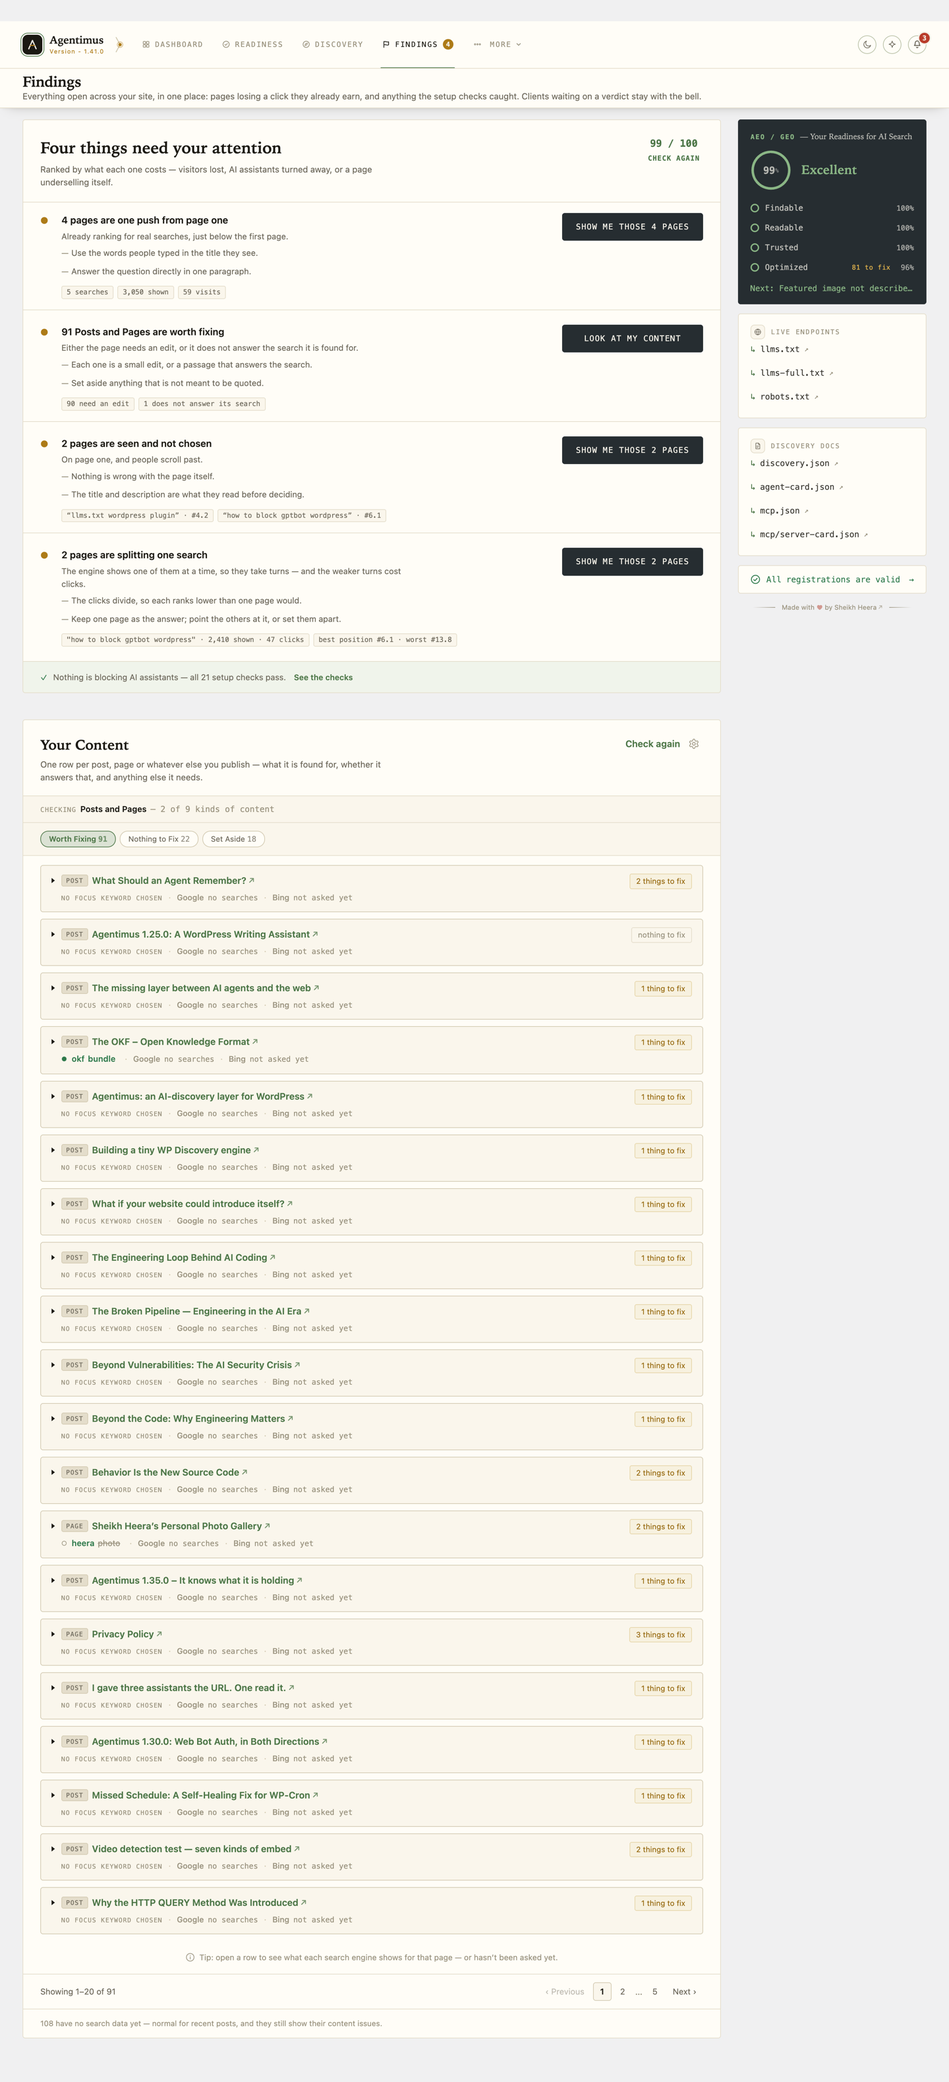
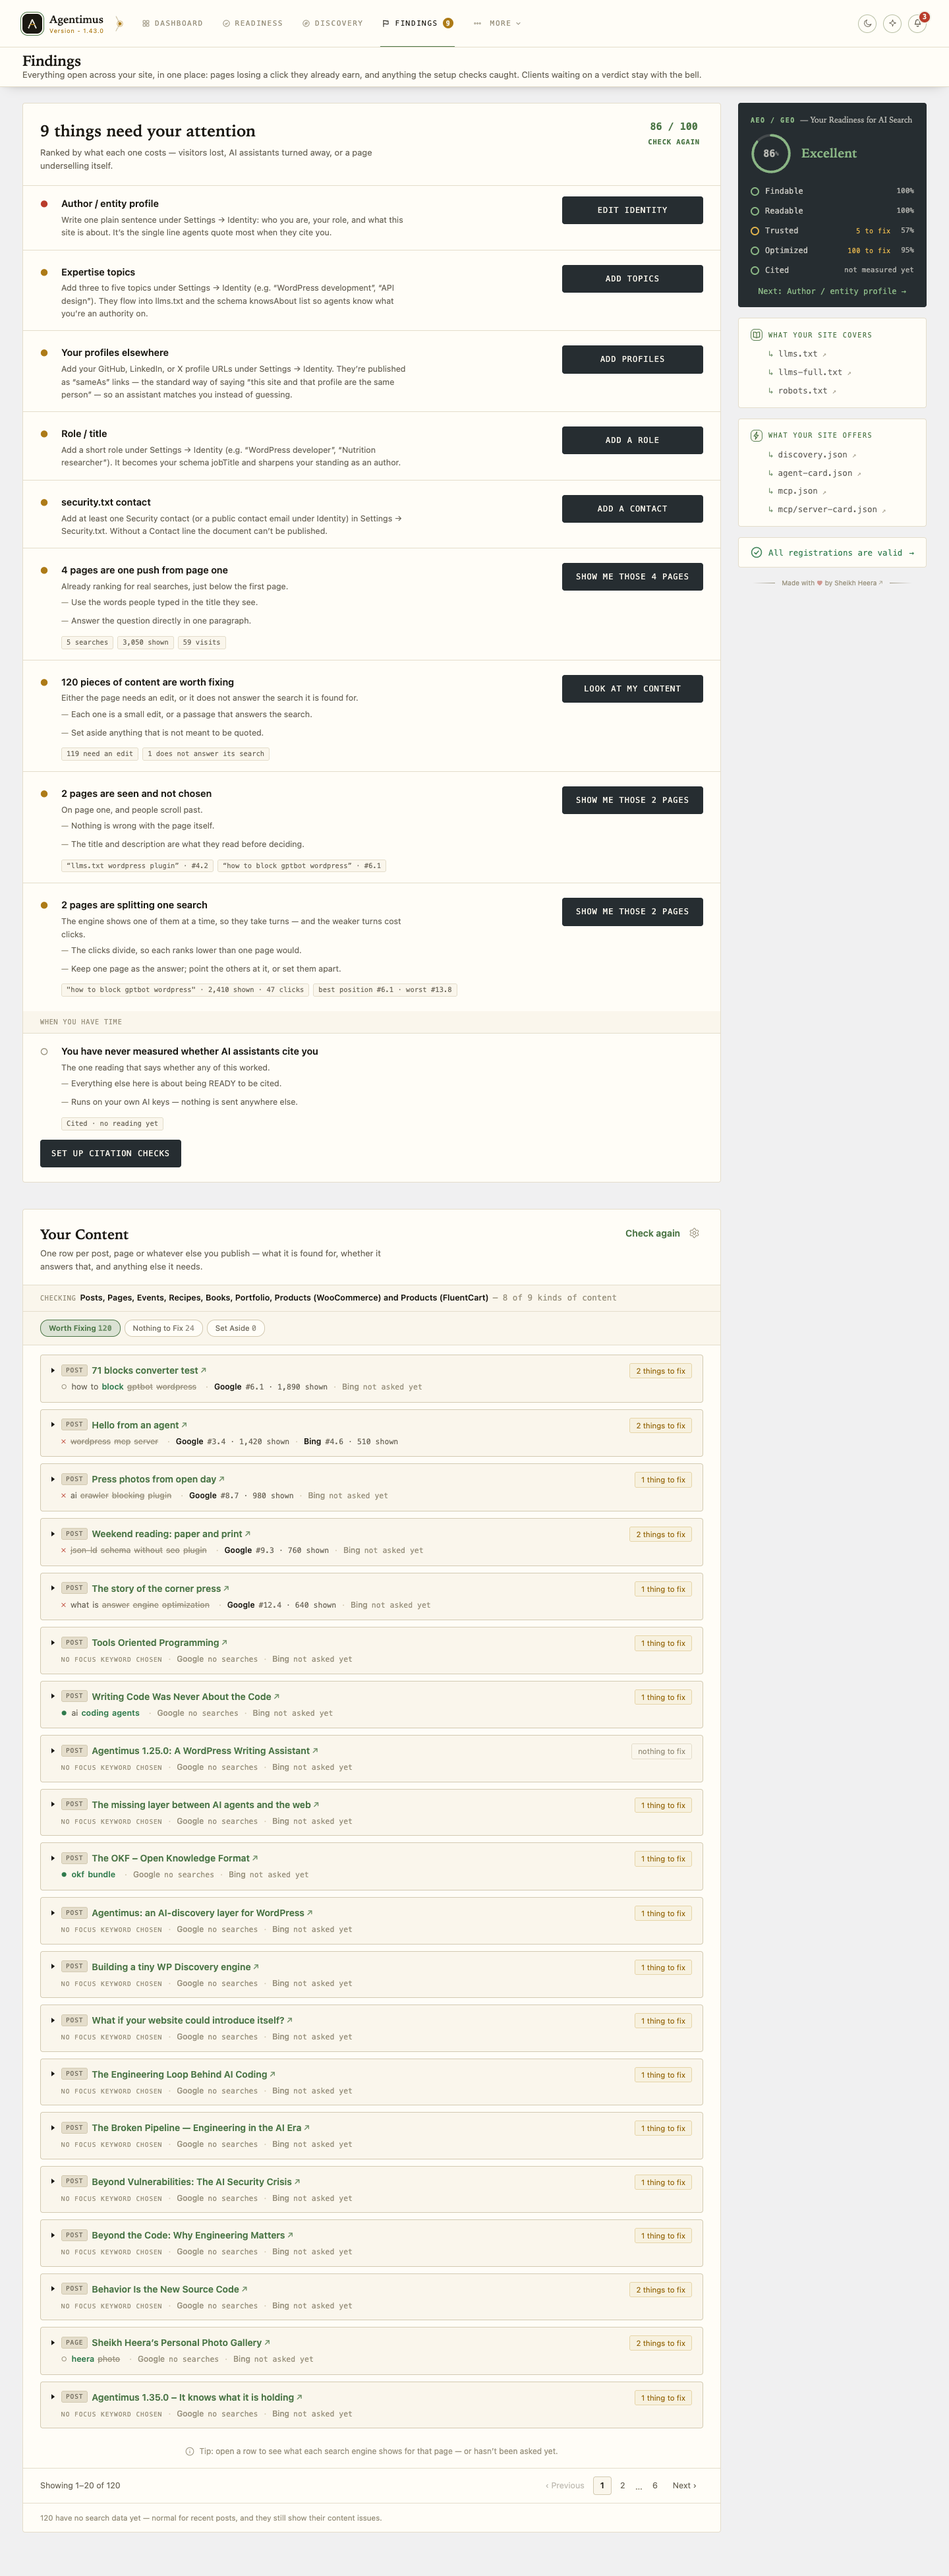
docs: 1.43.0 release notes, a trimmed readme, and 12 fresh screenshots
Changelog trimmed from 4,460 to 2,042 words before writing this release into
it — 1.37.0 and 1.38.0 dropped from readme.txt only, where they were more than
half the total. The full history keeps them, and the pointer now names 1.22.0,
which is what that file actually holds rather than what my notes claimed.

Description trimmed 2,390 → 2,355 by removing only duplication: a clause
repeated verbatim twenty lines later, a promise External services is required
to make in full anyway, and a heading that restated its own single bullet.
⚠ There is no fat left in it. The next words come out of something he chose to
say, and the forward-looking section (228 words) is the one clean option —
parked for the local-AI session by his call.

Screenshots: 12 re-shot at 1440 on 1.43.0, light. The rail was renamed this
cycle and sits on nearly all of them. ⛔ 9 deliberately not re-shot — a live
capture renders real tracked brands and rival names, his standing call. 11 and
12 have no rail.
⚠ Frame 7 came out of the first pass showing the MCP server switched OFF while
its caption promises a server address and connected assistants. That was the
partial-update bug wiping a real site's settings, found by looking at a
picture; the second pass shows what the caption says.

Version stays on a dev number until CI is green.

Changed region(s): [[0.0, 0.0, 1.0, 0.9927], [0.6562, 0.4033, 0.75, 0.9617], [0.5, 0.9307, 0.5938, 0.9617]]

diff --git a/inc/Admin.php b/inc/Admin.php
@@ -988,24 +988,24 @@ final class Admin {
 				// showing you our own key names" is an apology for a thing the owner
 				// never had a word for — the changelog carries it.
 				array(
+					'icon'  => 'search',
+					'title' => 'The Google Check Stays Finished',
+					'text'  => 'It used to run to the end and then start over a few minutes later, again and again, spending part of Google\'s daily allowance each time. It stops when it is done now — and Cancel really stops it, on your site and not just in your browser.',
+				),
+				array(
 					'icon'  => 'link',
-					'title' => 'See What an AI Assistant Actually Fetches',
-					'text'  => 'On Discovery, any address open to everyone is now a link — click it and you see exactly what an assistant sees. Addresses that need a sign-in stay plain text, so a link never sends you to a refusal.',
+					'title' => 'Publishing Clears the Pages That Actually Changed',
+					'text'  => 'If you use Cloudflare, publishing now also clears the page your articles are listed on, your category and tag pages, your feed and your sitemap. Before, those could keep showing yesterday for hours.',
 				),
 				array(
 					'icon'  => 'shield',
-					'title' => 'Your Assistant Can See What Is Connected',
-					'text'  => 'A connected assistant can now read your announcement record — including why one failed — and check whether each channel is still delivering. It is never handed an address or a key, and the four actions your own screen asks you to confirm stay yours.',
-				),
-				array(
-					'icon'  => 'search',
-					'title' => 'The Sidebar Says What Its Files Are For',
-					'text'  => 'The two lists in the sidebar are named for what they hold rather than for the machinery behind them, and the files on your dashboard read in plain words.',
+					'title' => 'Your Assistant Can Answer the Review Queue',
+					'text'  => 'It can see the clients waiting on your verdict, with the same evidence you get, and block, allow or set one aside. Search engines are refused there just as they are on your screen, and clearing the log stays yours.',
 				),
 				array(
 					'icon'  => 'page',
 					'title' => 'And a Round of Fixes',
-					'text'  => 'Real logos in the post editor\'s Share tab, a Readiness tip that pointed at a setting no longer called that, a page title that could reach an assistant still written in code, and a case where another plugin\'s change to your settings could be saved as your own. The changelog has the full list.',
+					'text'  => 'A half-finished cache clear now says how much of it landed instead of reading as a flat failure, and three screens that only said "nothing here" now say what would put something there. The changelog has the full list.',
 				),
 			),
 		);

diff --git a/agentimus.php b/agentimus.php
@@ -3,7 +3,7 @@
  * Plugin Name:       Agentimus
  * Plugin URI:        https://github.com/heera/agentimus
  * Description:       Make your site agent-ready (llms.txt, markdown, JSON-LD, a /.well-known discovery document, AI-crawl controls, agent-activity log) AND let the AI tools you use operate it over MCP — read your data and, opt-in, draft/edit/publish posts. Lightweight, no SEO bloat.
- * Version:           1.42.0
+ * Version:           1.43.0-dev5
  * Requires at least: 6.0
  * Requires PHP:      7.4
  * Author:            Sheikh Heera
@@ -19,7 +19,7 @@ namespace Agentimus;
 
 defined( 'ABSPATH' ) || exit;
 
-define( 'AGENTIMUS_VERSION', '1.42.0' );
+define( 'AGENTIMUS_VERSION', '1.43.0-dev5' );
 define( 'AGENTIMUS_FILE', __FILE__ );
 define( 'AGENTIMUS_DIR', plugin_dir_path( __FILE__ ) );
 define( 'AGENTIMUS_URL', plugin_dir_url( __FILE__ ) );

diff --git a/CHANGELOG.md b/CHANGELOG.md
@@ -4,6 +4,16 @@ The full release history. The readme.txt shipped to WordPress.org keeps only
 the most recent releases (its Changelog section has a 5,000-word cap); this
 file is the complete record.
 
+## 1.43.0
+* Fixed: the Google index check would not stay finished. It ran to the end, said so, and then started over a few minutes later — again and again, spending a slice of Google's daily allowance on every lap. The check leaves a safety net behind it in case you close the tab mid-run, and that net was never taken down when the run ended; an empty queue is how the check is told to begin a new one, so the net became a perpetual sweep. It now stands down with the run it was watching, and the continuation event refuses to start a run of its own.
+* Fixed: Cancel on that check stopped the loop in your browser and nothing else. The queue lives on your site, so the run carried on without you — the safety net finished it within minutes, and refreshing the page set your browser going again. Cancel is a decision your site keeps now: the remaining pages wait for your next press or for tomorrow's daily check, which is what the card always said would happen. It also says "Stopped" while they wait, instead of looking like work in progress. Only a deliberate start lifts the pause, and a new run is never born stopped.
+* Fixed: publishing did not clear your listing pages from Cloudflare. It cleared the post, your home page and your AI files — but not the page your articles are listed on, nor your category and tag pages, your feed or your sitemap, every one of which changes the moment you publish and every one of which Cloudflare had been holding for hours. If your articles live on their own page rather than your home page, that is the one you would have noticed. The extra addresses are sent to the edge only: a caching plugin already clears its own copies, and asking it twice is waste.
+* New: a connected assistant can see the clients your site is waiting on a verdict about, and answer them — block, allow, set aside for now, or undo a decision you made earlier. It can also re-run the identity check on a single client. It reads the same evidence you do: how much each one fetched, whether the identity check believed it, and the exact rule a block would match on. Search engines are refused here just as they are on your own screen, because the rule is derived by the same guard. Clearing the log asks you to confirm on your own screen, so it stays yours alone.
+* New: an assistant can also read what has been done on your site through a key — keys created and used, abilities run, requests refused — including whether this WordPress can see ability runs at all, so an empty list is never mistaken for a quiet week.
+* Improved: a cache purge that only half finished says so. The pages go to Cloudflare in batches, and a batch that fails leaves everything after it still serving old copies — the panel now says how many of how many were cleared, rather than reporting one flat failure over a job that partly worked.
+* Improved: three screens that said "there is nothing here" now say what would put something there — the agent access record, and the two previews of what an assistant would be served for a page.
+* Fixed: your public files were naming every tool your MCP server holds, with its description, while your own dashboard correctly reported that none of them were listed. Agentimus registers its own abilities as needing a sign-in — `mcp.public => false` — precisely so their names and descriptions stay off public surfaces, and three of the four places that publish honoured it. The fourth, the server card inside `/.well-known/mcp.json`, was built from the running server rather than from the registry, so it never saw the flag. The files now report how many tools the server holds without naming them, which is the same boundary Agentimus already drew around every other plugin's tools: a tool its owner has not published is not named in a document. Nothing changes for an assistant that connects — it lists every tool it may run, over the protocol, once it has a key. The count is still published, because withholding the names must not read as "this server is empty".
+
 ## 1.42.0
 * New: on Discovery, an address anyone can open is now a link. Click it and you see exactly what an AI assistant would fetch — the same page, in the same words, with nothing standing in between. An address that needs a sign-in stays plain text, because a link that always ends in a refusal teaches you the row is broken when the row is doing its job. The pill beside it already says which kind it is.
 * New: a connected assistant can read your announcement record — what is queued, what posted, and why a failed one failed. It can also try a failed announcement again. It cannot write a new announcement, cancel one, post one early, or remove one: those four ask you to confirm on your own screen, and an action does not survive losing that confirmation.
